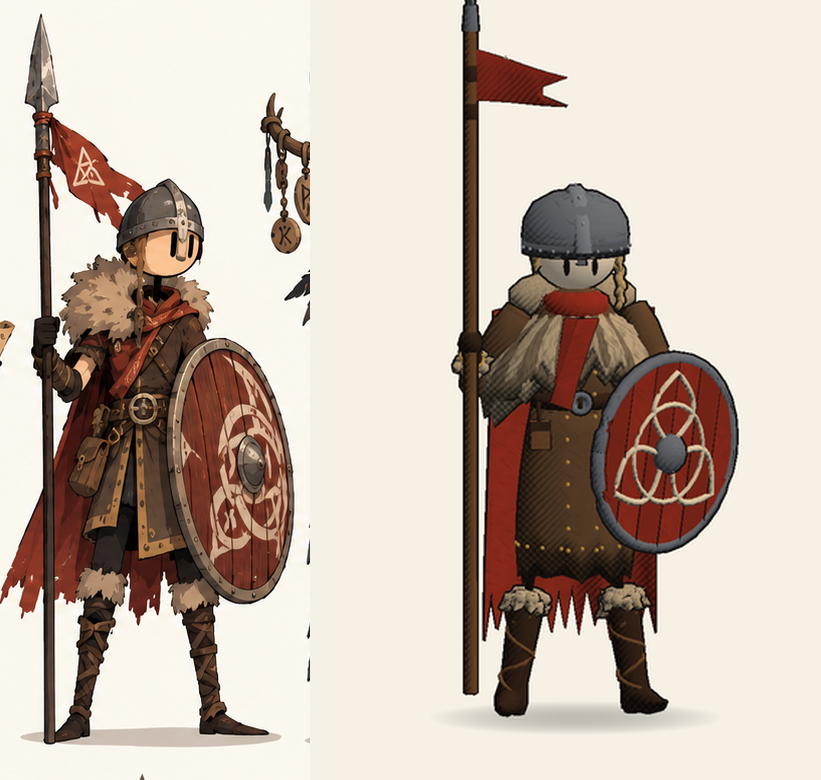
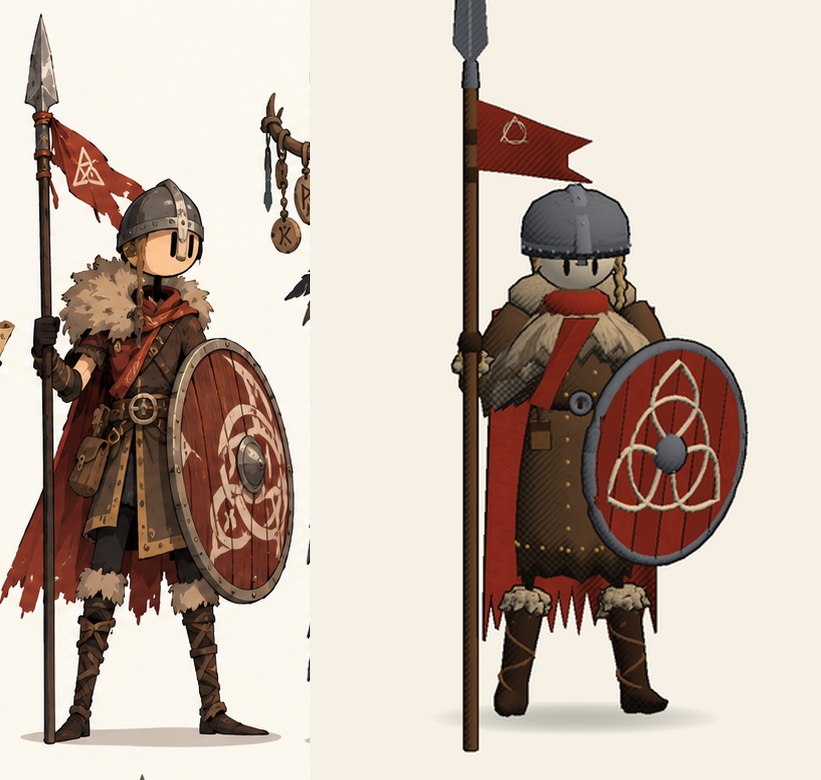
Spear Guard polish pass 2
The spear reaches the ground and carries a broad leaf-shaped head turned
to face the viewer; a bigger pennant with the knot sign painted on both
faces; a bigger shield; the pelt opens at the front so the scarf and
jerkin show, and the scarf ends hang across the chest.

Claude-Session: https://claude.ai/code/session_01SCdejJ1UF8RUxAkkFhZXGU

Changed region(s): [[0.5786, 0.4, 0.9135, 0.7385], [0.5481, 0.0, 0.7308, 0.2462], [0.5481, 0.8923, 0.609, 0.9846]]

diff --git a/OdinsCoin/Assets/Scripts/Characters/HeroModel.cs b/OdinsCoin/Assets/Scripts/Characters/HeroModel.cs
@@ -160,14 +160,14 @@ namespace OdinsCoin
                 case WeaponId.Spear:
                     // A tall spear held about a third of the way up: an ash shaft with leather bindings, a leaf-shaped
                     // iron head on a socket, and a red pennant with a knot rune tied below the head.
-                    d.Add(Joints.Weapon, d.pal.leather, MeshData.Tube(new[] { new Vector3(0f, 0f, -1.12f * s), new Vector3(0f, 0f, 1.0f * s) }, new[] { 0.02f * s, 0.018f * s }, 8));
-                    foreach (float z in new[] { 0.7f, 0.82f })
+                    d.Add(Joints.Weapon, d.pal.leather, MeshData.Tube(new[] { new Vector3(0f, 0f, -1.3f * s), new Vector3(0f, 0f, 0.82f * s) }, new[] { 0.02f * s, 0.018f * s }, 8));
+                    foreach (float z in new[] { 0.5f, 0.62f })
                         d.Add(Joints.Weapon, d.pal.leatherDark, MeshData.Lathe(new[] { new Vector2(0.024f * s, 0f), new Vector2(0.024f * s, 0.05f * s) }, 8).Transformed(new Vector3(0f, 0f, z * s), Quaternion.Euler(90f, 0f, 0f), Vector3.one), false);
-                    d.Add(Joints.Weapon, d.pal.metal, MeshData.Lathe(new[] { new Vector2(0.024f * s, 0f), new Vector2(0.018f * s, 0.08f * s) }, 8).Transformed(new Vector3(0f, 0f, 0.98f * s), Quaternion.Euler(90f, 0f, 0f), Vector3.one));
+                    d.Add(Joints.Weapon, d.pal.metal, MeshData.Lathe(new[] { new Vector2(0.024f * s, 0f), new Vector2(0.018f * s, 0.08f * s) }, 8).Transformed(new Vector3(0f, 0f, 0.8f * s), Quaternion.Euler(90f, 0f, 0f), Vector3.one));
                     d.Add(Joints.Weapon, d.pal.metal, MeshData.Extrude(new[] {
-                        new Vector2(1.05f, 0.0f), new Vector2(1.1f, 0.045f), new Vector2(1.22f, 0.035f), new Vector2(1.32f, 0.0f), new Vector2(1.22f, -0.035f), new Vector2(1.1f, -0.045f) }, 0.016f)
-                        .Transformed(Vector3.zero, Quaternion.Euler(0f, 0f, 90f), Vector3.one * s));
-                    d.Add(Joints.Weapon, VikingModel.Shade(d.pal.metal, 1.35f), MeshData.Box(new Vector3(0f, 0f, 1.2f * s), new Vector3(0.006f, 0.012f, 0.2f) * s), false);
+                        new Vector2(0.87f, 0.0f), new Vector2(0.94f, 0.055f), new Vector2(1.08f, 0.042f), new Vector2(1.2f, 0.0f), new Vector2(1.08f, -0.042f), new Vector2(0.94f, -0.055f) }, 0.018f)
+                        .Transformed(Vector3.zero, Quaternion.identity, Vector3.one * s));
+                    d.Add(Joints.Weapon, VikingModel.Shade(d.pal.metal, 1.35f), MeshData.Box(new Vector3(0f, 0f, 1.03f * s), new Vector3(0.024f, 0.008f, 0.26f) * s), false);
                     {
                         // The pennant: tied at the shaft, flying sideways with two torn tails.
                         const int prow = 4, pcol = 6;
@@ -177,16 +177,20 @@ namespace OdinsCoin
                             {
                                 float u = c / (float)(pcol - 1), v = r / (float)(prow - 1);
                                 float tail = u > 0.7f ? (r == 1 || r == 2 ? -0.05f : 0.03f) * (u - 0.7f) / 0.3f : 0f;
-                                grid[r, c] = new Vector3(0.01f * s * Mathf.Sin(u * 5f), (0.02f + u * 0.26f + tail) * s, (0.92f - v * (0.16f - 0.07f * u) - u * 0.08f) * s);
+                                grid[r, c] = new Vector3(0.01f * s * Mathf.Sin(u * 5f), (0.02f + u * 0.34f + tail) * s, (0.76f - v * (0.22f - 0.09f * u) - u * 0.12f) * s);
                             }
                         d.Add(Joints.Weapon, d.pal.accent, CharacterKit.Sheet(grid, Vector3.right, 0.008f * s));
-                        var c0 = new Vector3(0.014f * s, 0.11f * s, 0.86f * s);
-                        var ring = new Vector3[13];
-                        var rr = new float[13];
-                        for (int i = 0; i < ring.Length; i++) { float a = i / 12f * Mathf.PI * 2f; ring[i] = c0 + new Vector3(0f, Mathf.Cos(a), Mathf.Sin(a)) * 0.028f * s; rr[i] = 0.003f * s; }
-                        d.Add(Joints.Weapon, d.pal.emblem, MeshData.Tube(ring, rr, 4), false);
-                        var tri = new[] { c0 + new Vector3(0f, 0f, 0.04f) * s, c0 + new Vector3(0f, 0.035f, -0.022f) * s, c0 + new Vector3(0f, -0.035f, -0.022f) * s, c0 + new Vector3(0f, 0f, 0.04f) * s };
-                        d.Add(Joints.Weapon, d.pal.emblem, MeshData.Tube(tri, new[] { 0.003f * s, 0.003f * s, 0.003f * s, 0.003f * s }, 4), false);
+                        // The knot sign, painted on both faces of the cloth.
+                        foreach (float cx in new[] { 0.015f, 0.004f })
+                        {
+                            var c0 = new Vector3(cx * s, 0.14f * s, 0.66f * s);
+                            var ring = new Vector3[13];
+                            var rr = new float[13];
+                            for (int i = 0; i < ring.Length; i++) { float a = i / 12f * Mathf.PI * 2f; ring[i] = c0 + new Vector3(0f, Mathf.Cos(a), Mathf.Sin(a)) * 0.036f * s; rr[i] = 0.003f * s; }
+                            d.Add(Joints.Weapon, d.pal.emblem, MeshData.Tube(ring, rr, 4), false);
+                            var tri = new[] { c0 + new Vector3(0f, 0f, 0.05f) * s, c0 + new Vector3(0f, 0.045f, -0.028f) * s, c0 + new Vector3(0f, -0.045f, -0.028f) * s, c0 + new Vector3(0f, 0f, 0.05f) * s };
+                            d.Add(Joints.Weapon, d.pal.emblem, MeshData.Tube(tri, new[] { 0.003f * s, 0.003f * s, 0.003f * s, 0.003f * s }, 4), false);
+                        }
                     }
                     break;
                 case WeaponId.Staff:
@@ -297,7 +301,7 @@ namespace OdinsCoin
                     {
                         // A big shield of red planks with an iron rim and boss and a pale triple-knot painted on it,
                         // held in front of the body, face forward (+Z).
-                        float rad = 0.3f * s;
+                        float rad = 0.34f * s;
                         var at = new Vector3(0f, 0.02f * s, 0.06f * s);
                         for (int q = 0; q < 6; q++)
                         {

diff --git a/OdinsCoin/Assets/Scripts/Characters/Garments.cs b/OdinsCoin/Assets/Scripts/Characters/Garments.cs
@@ -736,7 +736,7 @@ namespace OdinsCoin
                     {
                         float v = r / (float)(rows - 1);
                         float len = side < 0f ? 0.26f : 0.2f;
-                        float x = side * 0.02f * s + Mathf.Lerp(0f, 0.09f, v) * s * (side < 0f ? 1f : 0.4f) + (c - 0.5f) * 0.065f * s;
+                        float x = side * 0.02f * s + Mathf.Lerp(0f, 0.16f, v) * s * (side < 0f ? 1f : 0.5f) + (c - 0.5f) * 0.065f * s;
                         float yy = y - 0.02f * s - v * len * s - (r == rows - 1 && c == 0 ? 0.025f * s : 0f);
                         grid[r, c] = new Vector3(x, yy, cz + v * 0.02f + (side < 0f ? 0.012f : 0f));
                     }

diff --git a/OdinsCoin/Assets/Scripts/Characters/Outfits.cs b/OdinsCoin/Assets/Scripts/Characters/Outfits.cs
@@ -123,7 +123,7 @@ namespace OdinsCoin
                     Garments.StuddedTrim(d);
                     Garments.RingBuckleBelt(d);
                     Garments.BigCape(d, 0.9f, 1.4f, false);
-                    Garments.ShoulderPelt(d, 1.2f);
+                    Garments.ShoulderPelt(d, 1.2f, 0f, 0.9f, 2.2f);
                     Garments.Scarf(d);
                     Garments.NasalHelmet(d);
                 } } },
